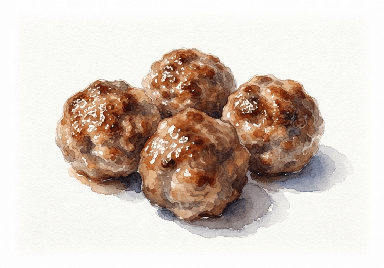
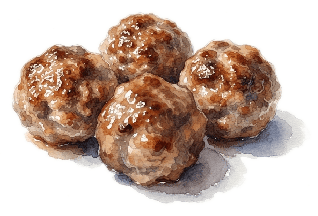
Fix spruitenstamp margin image spilling onto andijviestamp page (#179)
* Fix spruitenstamp margin image spilling onto andijviestamp page

The ingredients margin image at the top of spruitenstamp was floating
onto the preceding andijviestamp page. Remove it and use the hero
image (bowl shot) at the top instead, dropping the now-redundant
duplicate at the bottom of the recipe.

Claude-Session: https://claude.ai/code/session_015dqX8fFQpJeZYm88WoEz7R

* Whiten gehaktballetjes margin image background

Border sat at ~253/253/253, a few points below pure white - the same
defect fixed on arretjescake/brownies/ijstaart in an earlier pass, but
it slipped under normalize_background.py's MIN_CAST=3 skip threshold
(255-253=2) and only got cropped, never actually whitened. Ran the
same flood-fill whitening by hand; the mask (64% of frame) stays clear
of the meatballs and their shadow.

Claude-Session: https://claude.ai/code/session_015dqX8fFQpJeZYm88WoEz7R

* Crop gehaktballetjes margin image tighter

Subject only filled ~76%/71% of the frame width/height, loose compared
to the ~90%+ fill of sibling margin images (bruschetta, pesto-genovese,
kibbeling, ...). Tightened the crop to a 12px margin around the
meatballs and their shadow, matching the established pattern from the
earlier crop-tightening pass.

Claude-Session: https://claude.ai/code/session_015dqX8fFQpJeZYm88WoEz7R

---------

diff --git a/recipes/spruitenstamp.tex b/recipes/spruitenstamp.tex
@@ -6,7 +6,7 @@
 \index[register]{Stamppot}
 
 \meta{35 minuten}
-\marginimage{images/spruitenstamp-ingredienten}
+\marginimage{images/spruitenstamp-hero}
 
 \lettrine{S}{pruitenstamp} met spekjes en brie is een winterse stamppot. De brie
 smelt licht door de warme puree en de spekjes zorgen voor wat bite. De
@@ -44,6 +44,4 @@ te smelten: losse stukjes brie door de stamp zijn juist lekker.}
         een klontje boter en de mosterd tot een stevige puree. Breng op smaak met zout en peper.
   \item Roer het spruitjes-spekmengsel door de puree. Snijd de brie in stukken en roer rustig door de stamppot. Serveer direct.
 \end{steps}
-
-\marginimage{images/spruitenstamp-hero}
 \end{recipe}
